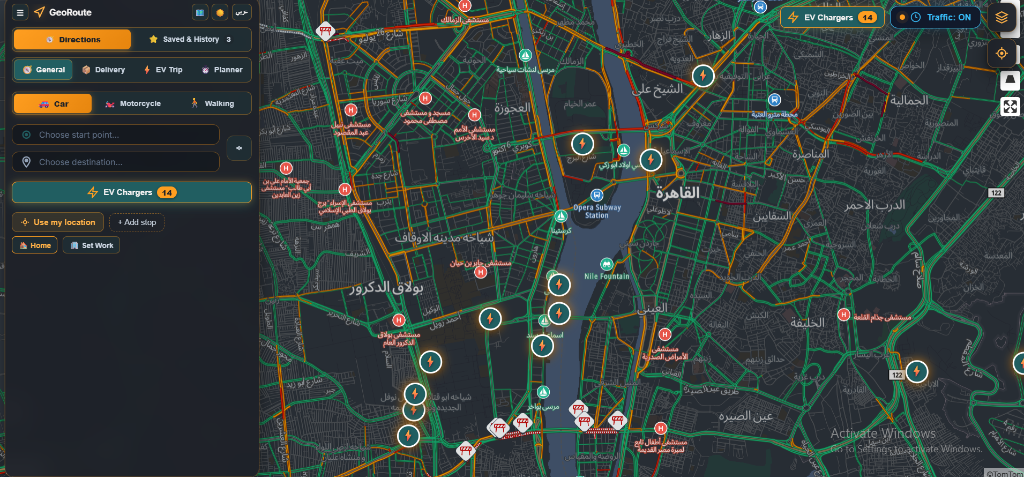
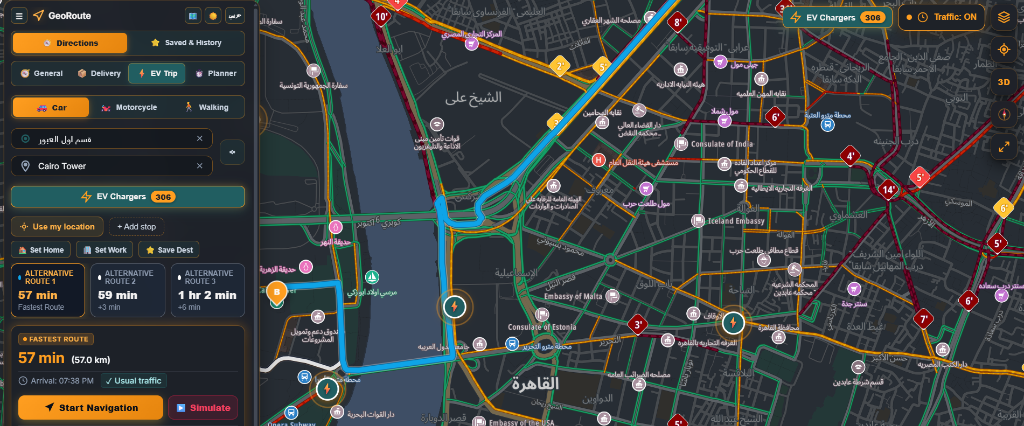
feat(georoute): update project screenshots with new ordered images

diff --git a/src/data/projects.js b/src/data/projects.js
@@ -22,7 +22,7 @@ export const allProjects = [
       'TSP Optimization',
       'Tailwind CSS',
     ],
-    images: ['georoute1.png', 'georoute2.jpg', 'georoute3.jpg', 'georoute4.png'],
+    images: ['georoute1.png', 'georoute2.png', 'georoute3.jpg'],
     featured: true,
     badge: 'Flagship Web GIS',
     live: 'https://mustafaramadan74.github.io/Navigation-System/',
